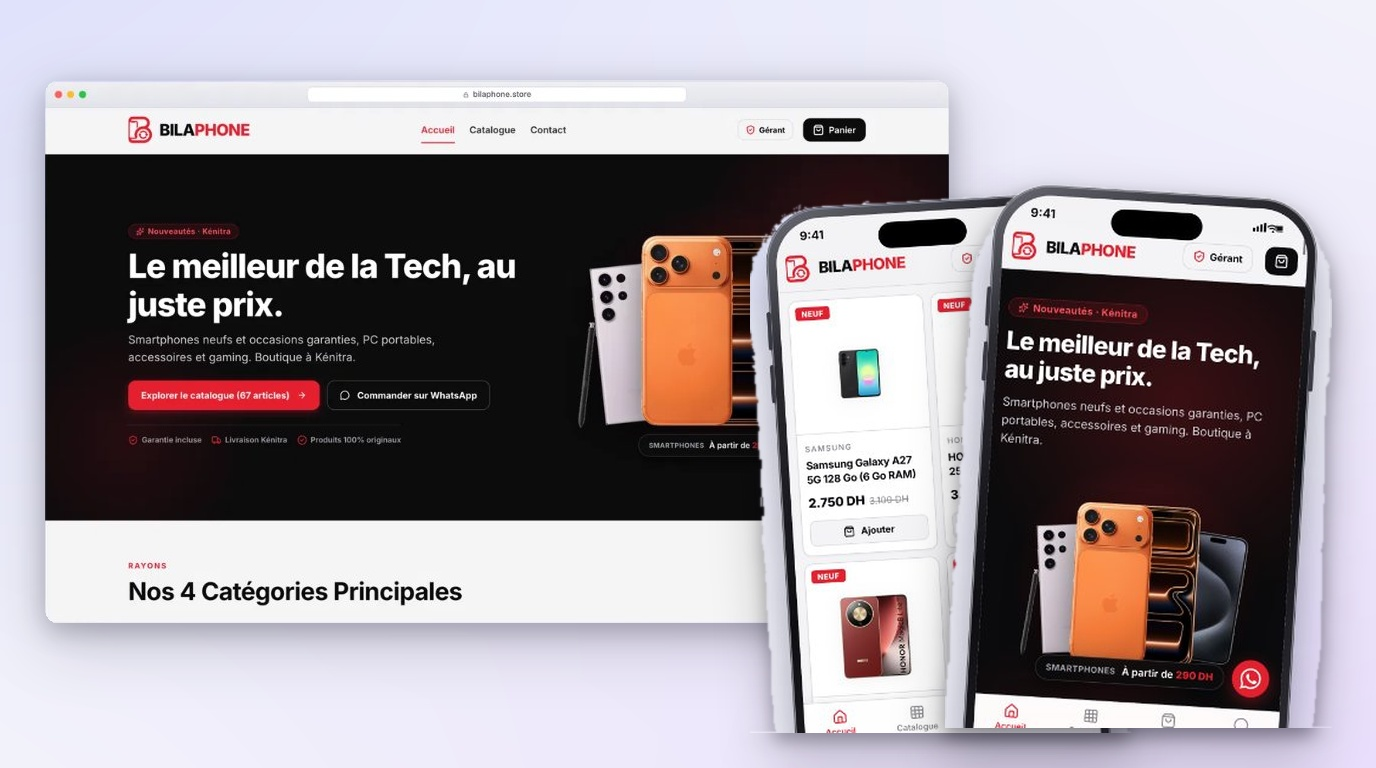
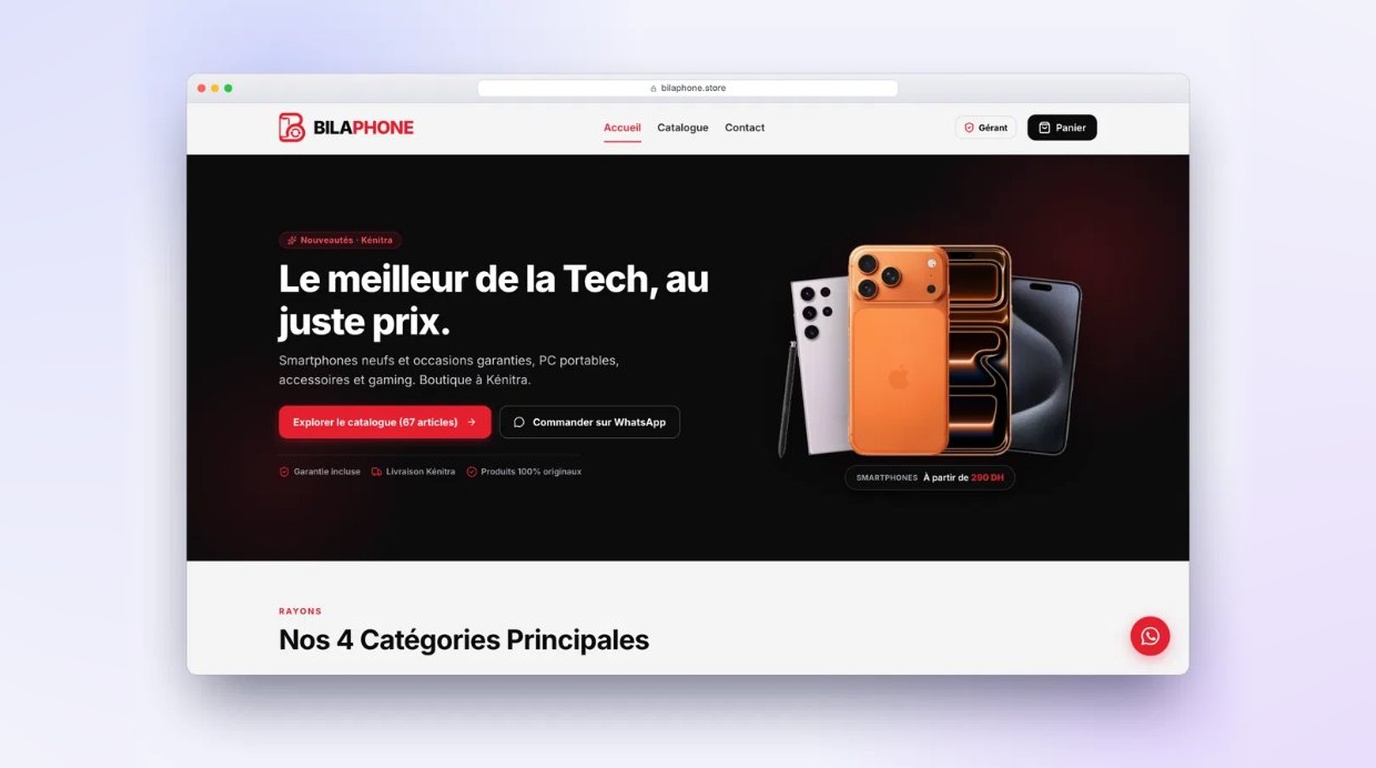
Update BILAPHONE mockup to clean desktop studio style matching Revivo

diff --git a/index.html b/index.html
@@ -1110,7 +1110,7 @@
         <a href="https://www.bilaphone.store" target="_blank" rel="noopener" class="work-card" data-category="websites">
           <div class="work-card-media">
             <span class="work-card-badge" style="background: rgba(229, 57, 53, 0.95); color: #fff; font-weight: 700;">E-Commerce Store ↗</span>
-            <img src="images/work/bilaphone_thumb.jpg?v=2" alt="BILAPHONE: Smartphones & High-Tech Store" loading="lazy">
+            <img src="images/work/bilaphone_thumb.jpg?v=3" alt="BILAPHONE: Smartphones & High-Tech Store" loading="lazy">
           </div>
           <div class="work-card-body">
             <div class="work-meta-row">

diff --git a/portfolio.html b/portfolio.html
@@ -247,7 +247,7 @@
         <!-- Case: BILAPHONE Store -->
         <div class="case-study-card">
           <div class="case-img-container">
-            <img src="images/work/bilaphone_thumb.jpg?v=2" alt="BILAPHONE: Smartphones & High-Tech Store">
+            <img src="images/work/bilaphone_thumb.jpg?v=3" alt="BILAPHONE: Smartphones & High-Tech Store">
             <span class="project-tag" style="background:#e53935;color:#fff;">E-Commerce & Retail</span>
           </div>
           <div class="case-study-body">

diff --git a/site.js b/site.js
@@ -647,7 +647,7 @@
       deliverables: "E-Commerce Architecture, Admin Dashboard, Product Catalog, WhatsApp Ordering",
       desc: "Plateforme e-commerce moderne dédiée à la vente de smartphones neufs et occasions avec espace gérant (admin dashboard), gestion des commandes et catalogue interactif.",
       images: [
-        "images/work/bilaphone_full.jpg?v=2"
+        "images/work/bilaphone_full.jpg?v=3"
       ]
     },
     klicko: {
